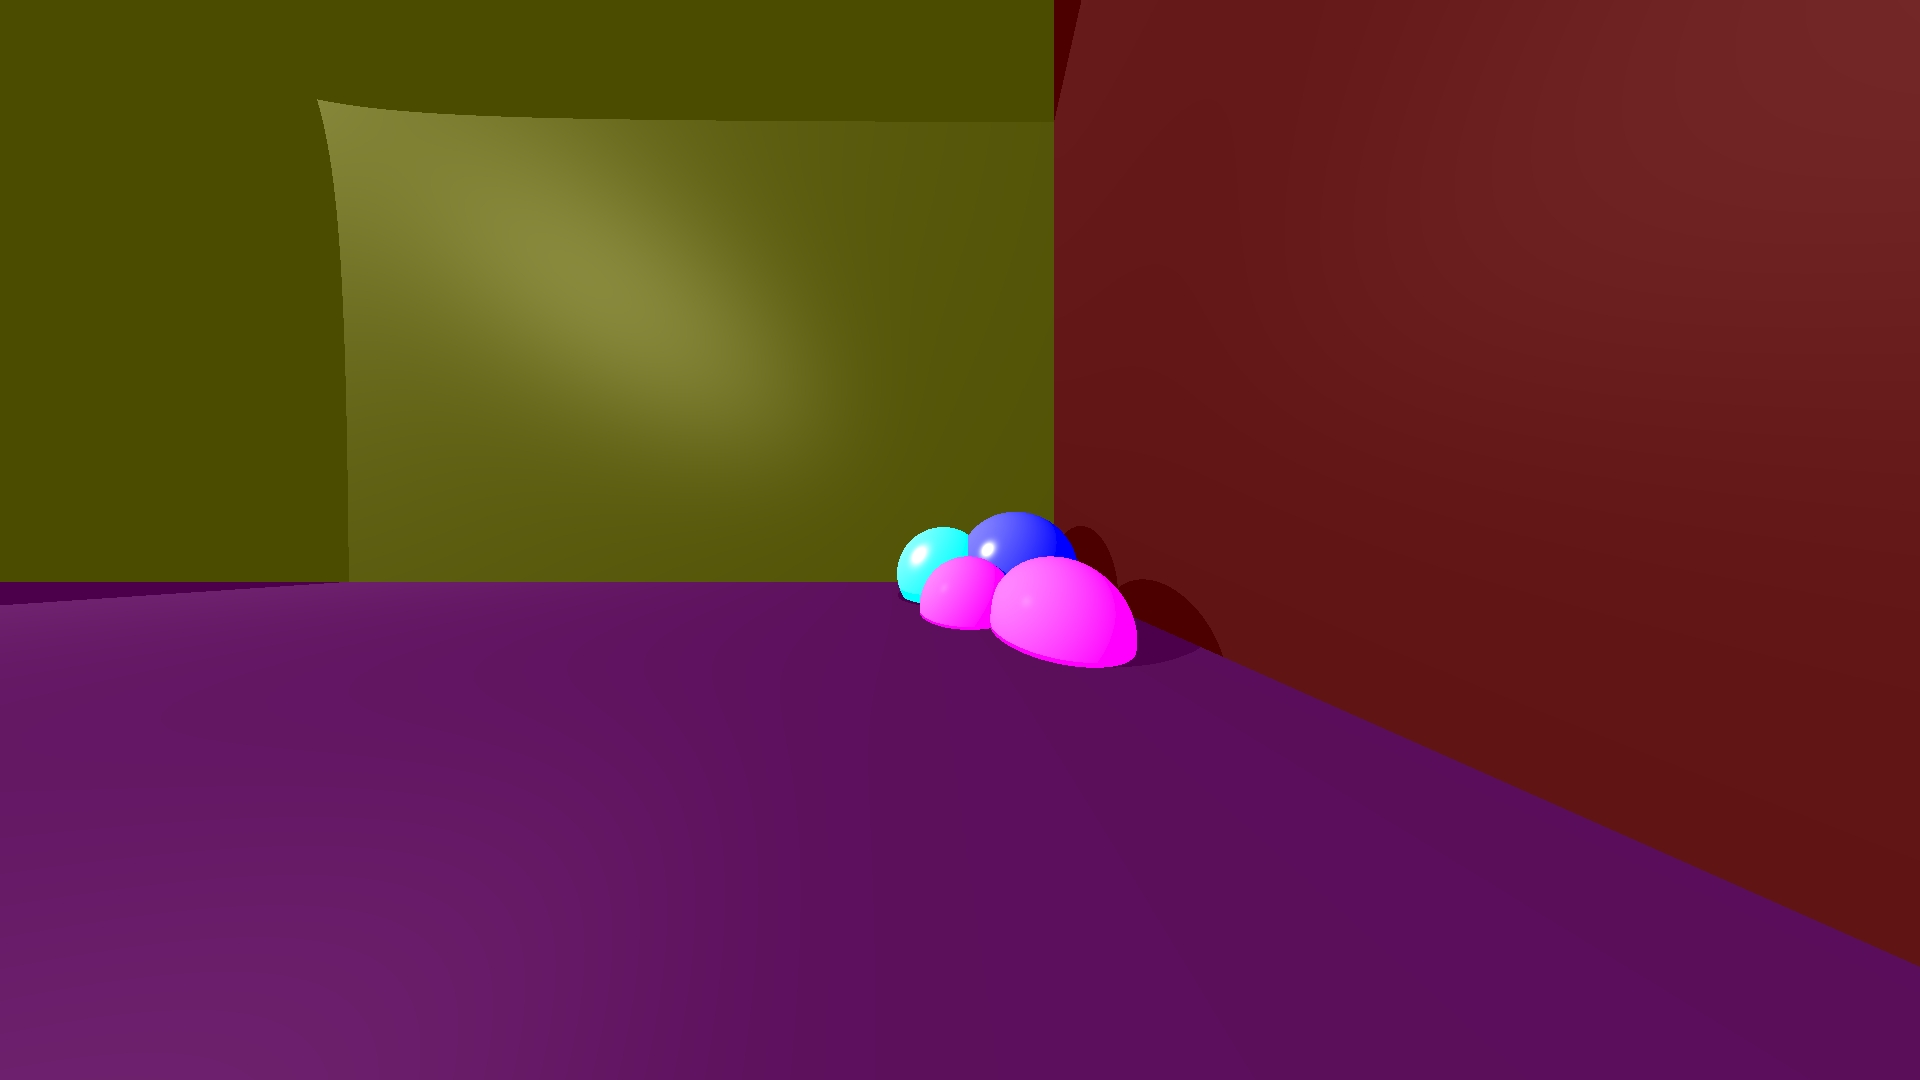
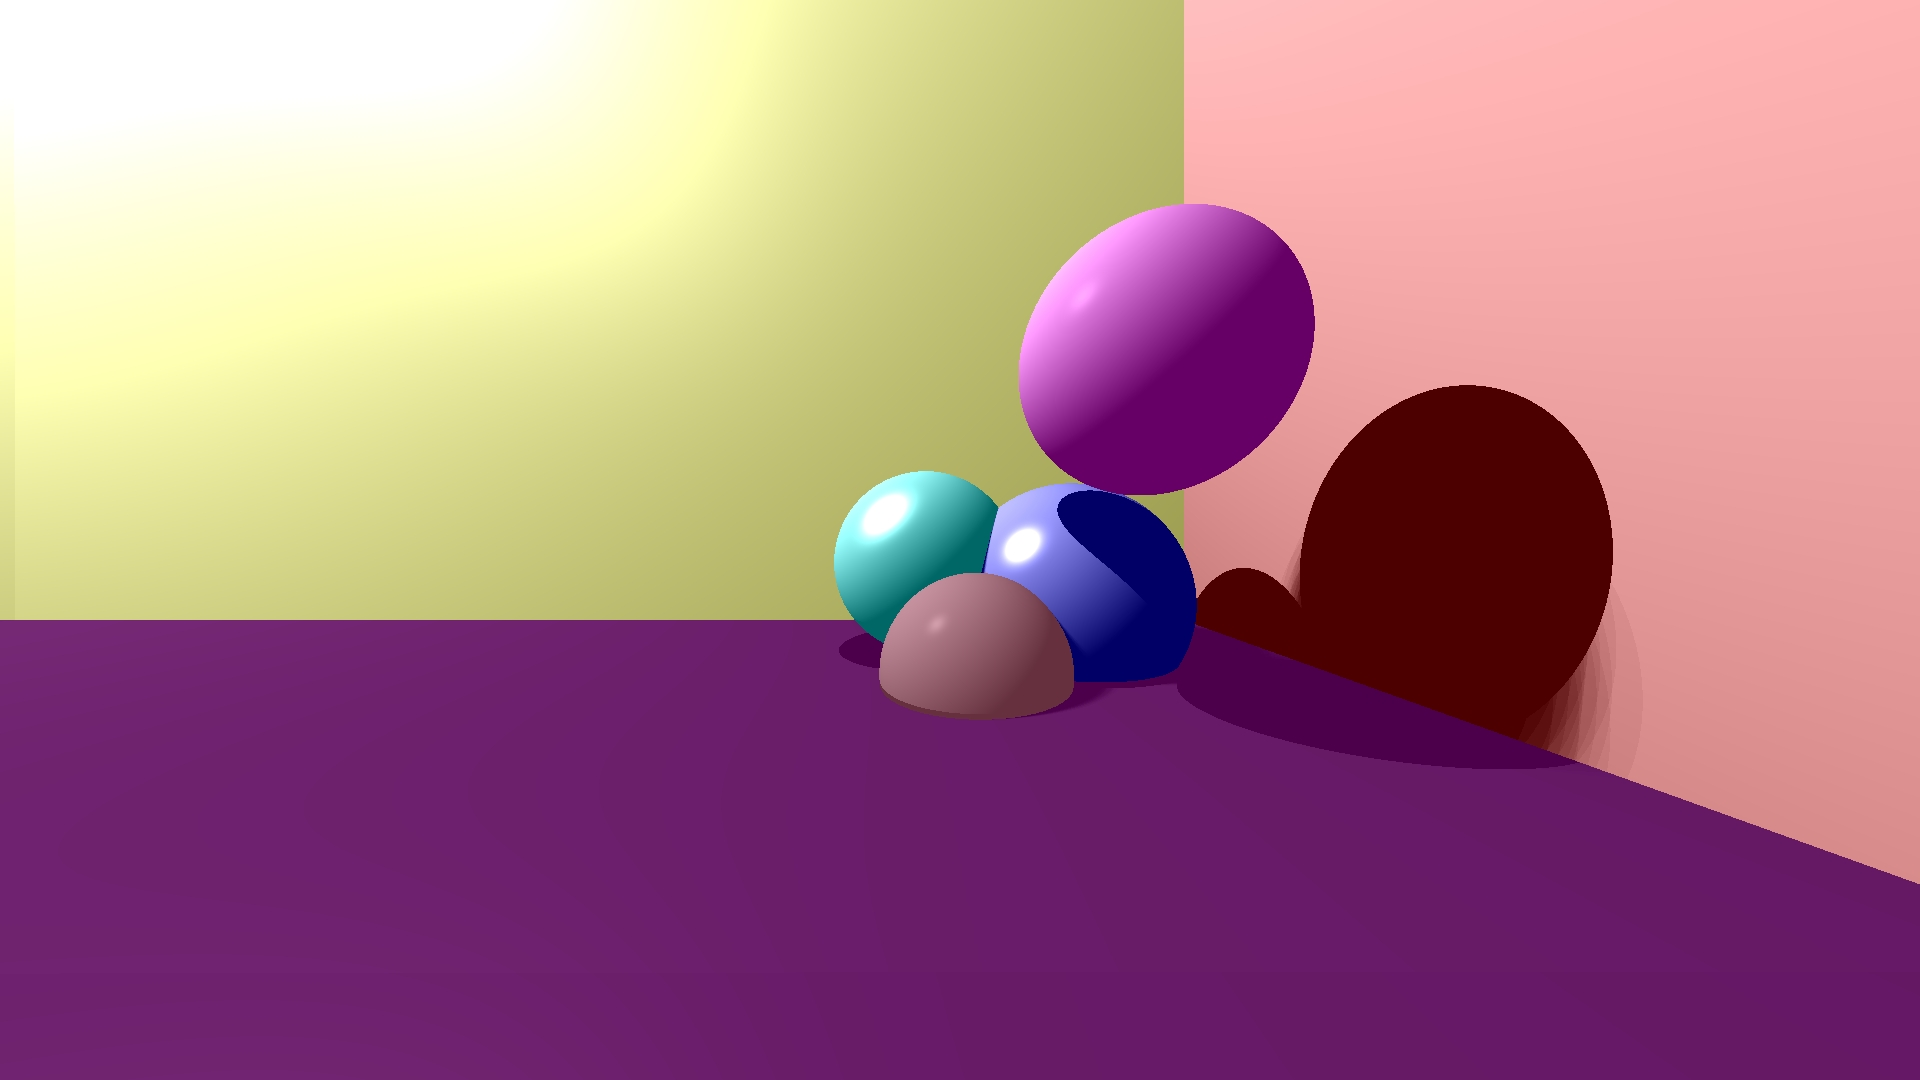
jj

diff --git a/src/unittests/Project.java b/src/unittests/Project.java
@@ -24,30 +24,44 @@ public class Project {
 		int Y = 1080;
 		ImageWriter _imageWriter = new ImageWriter("Project", X, Y, X, Y);
 		Scene _scene = new Scene("Hills");
-		_scene.setScreenDistance(200);
+		_scene.setScreenDistance(400);
 		_scene.setBackground(new Color(0, 0, 0));
 		_scene.setCamera(new Camera(new Point3D(7.48113, -0.335088, 0.991898), new Vector(0, 0, 1),
 				new Vector(-1, 0, 0).normalize()));
-		_scene.setAmbientLight(new AmbientLight(new Color(0, 0, 0), 1));
+		_scene.setAmbientLight(new AmbientLight(new Color(0, 0, 0), 0));
 
+		
+		//light
 		_scene.addLightSource(
-				new PointLight(new Point3D(1*16.39727, -20*3.38068, 40*0.951183).add(new Vector(0,0,1).scale(10)), 1, 0.1, 0, new Color(255, 255, 255), 10));
-		_scene.addGeometry(new Plane(new Point3D(0, 8.02304, 0), new Vector(0, -1, 0), new Color(255, 0, 0).scale(0.3),
-				new Material(1, 1, 10, 0, 0)));
-		_scene.addGeometry(new Plane(new Point3D(-10.2914, 0, 0), new Vector(1, 0, 0), new Color(255, 255, 0).scale(0.3),
-				new Material(1, 1, 10, 0, 0)));
+				new PointLight(new Point3D(0.55*16.39727, -15*3.38068, (50*0.951183)+10), 0.55, 0.03, 0, new Color(255, 255, 255).scale(0.5), 5));
+		//_scene.addLightSource(
+		//		new PointLight(new Point3D(2 *16.39727, -20*3.38068, (50*0.951183)+10), 1, 0.03, 0, new Color(255, 255, 255).scale(0.5), 10));
+		
+		//walls
+		_scene.addGeometry(new Plane(new Point3D(0, 2+8.02304, 0), new Vector(0, -1, 0), new Color(255, 0, 0).scale(0.3),
+				new Material(5, 1, 1, 0.9, 0)));
+		_scene.addGeometry(new Plane(new Point3D(-11, 0, 0), new Vector(1, 0, 0), new Color(255, 255, 0).scale(0.3),
+				new Material(10, 1, 10, 0.9, 0)));
 		_scene.addGeometry(new Plane(new Point3D(0, 0, -2.7243), new Vector(0, 0, 1), new Color(255, 0, 255).scale(0.3),
 				new Material(1, 1, 10, 0, 0)));
+		
+		//blue sphere
 		_scene.addGeometry(new Sphere(new Point3D(-6.39727, 3.38068, -0.951183), 3.871,
-				new Color(0, 0, 255).scale(1), new Material(5, 10, 35, 0, 0)));
-		_scene.addGeometry(new Sphere(new Point3D(-6.88142, -1.52322, -1.26099), 3.178,
-				new Color(0, 255, 255).scale(1), new Material(5, 10, 15, 0, 0)));
-		_scene.addGeometry(new Sphere(new Point3D(-0.98223, 3.60253, -2.38037), 2.669,
-				new Color(255, 0, 255).scale(1), new Material(5, 0.85, 73, 0, 0)));
+				new Color(0, 0, 255).scale(0.4), new Material(5, 10, 35, 0, 0)));
+		//cyan
+		_scene.addGeometry(new Sphere(new Point3D(-6.88142, -1.52322, 1.5-1.26099), 3.178,
+				new Color(0, 255, 255).scale(0.4), new Material(5, 10, 15, 0, 0)));
+		//_scene.addGeometry(new Sphere(new Point3D(5-6.88142, -20-1.52322, 10-1.26099), 3.178,
+			//	new Color(0, 255, 255).scale(0.4), new Material(5, 10, 15, 0, 0)));
+		
+		//purple
+		_scene.addGeometry(new Sphere(new Point3D(-0.98223, 3.60253, 7-2.38037), 2.669,
+				new Color(255, 0, 255).scale(0.4), new Material(5, 0.85, 73, 0, 0)));
+		//brown
 		_scene.addGeometry(new Sphere(new Point3D(-3.32966, 0.091357, -2.4552), 2.555,
-				new Color(255, 0, 255).scale(1), new Material(5, 0.85, 73, 0, 0)));
-		_scene.addGeometry(new Sphere(new Point3D(-10.0714, 8.02301, -2.52438), 2.555,
-				new Color(255, 0, 255).scale(1), new Material(5, 0.85, 73, 0, 0)));
+				new Color(255, 122, 155).scale(0.4), new Material(2.5, 0.85, 73, 0, 0)));
+		//_scene.addGeometry(new Sphere(new Point3D(-10.0714, 8.02301, -2.52438), 2.555,
+		//		new Color(255, 0, 255).scale(1), new Material(5, 0.85, 73, 0, 0)));
 		
 		Render r = new Render(_imageWriter, _scene);
 

diff --git a/src/elements/PointLight.java b/src/elements/PointLight.java
@@ -84,14 +84,14 @@ public class PointLight extends Light implements LightSource {
 		Vector v1, v2;
 
 		if (xI == null || yI == null || zI == null) {
-			samples.add(_position.add(new Vector(1, 1, 1)));
-			samples.add(_position.add(new Vector(-1, -1, -1)));
-			samples.add(_position.add(new Vector(1, -1, -1)));
-			samples.add(_position.add(new Vector(-1, 1, -1)));
-			samples.add(_position.add(new Vector(-1, -1, 1)));
-			samples.add(_position.add(new Vector(-1, 1, 1)));
-			samples.add(_position.add(new Vector(1, -1, 1)));
-			samples.add(_position.add(new Vector(1, 1, -1)));
+			samples.add(_position.add(new Vector(0.01, 0.01, 0.01)));
+			samples.add(_position.add(new Vector(-0.01, -0.01, -0.01)));
+			samples.add(_position.add(new Vector(0.01, -0.01, -0.01)));
+			samples.add(_position.add(new Vector(-0.01, 0.01, -0.01)));
+			samples.add(_position.add(new Vector(-0.01, -0.01, 0.01)));
+			samples.add(_position.add(new Vector(-0.01, 0.01, 0.01)));
+			samples.add(_position.add(new Vector(0.01, -0.01, 0.01)));
+			samples.add(_position.add(new Vector(0.01, 0.01, -0.01)));
 			return samples;
 		}
 		Point3D _1 = new Point3D(0, 0, zI);

diff --git a/src/renderer/Render.java b/src/renderer/Render.java
@@ -133,7 +133,7 @@ public class Render {
 			if (intersectionPoints.isEmpty())
 				counter++;
 		}
-		double coveragePercentage = counter / lightPoints.size();
+		double coveragePercentage = (double)counter / (double)lightPoints.size();
 		if (coveragePercentage > 1 || coveragePercentage < 0)
 			throw new IllegalArgumentException("Counter can't be bigger than points");
 		return o * coveragePercentage;
